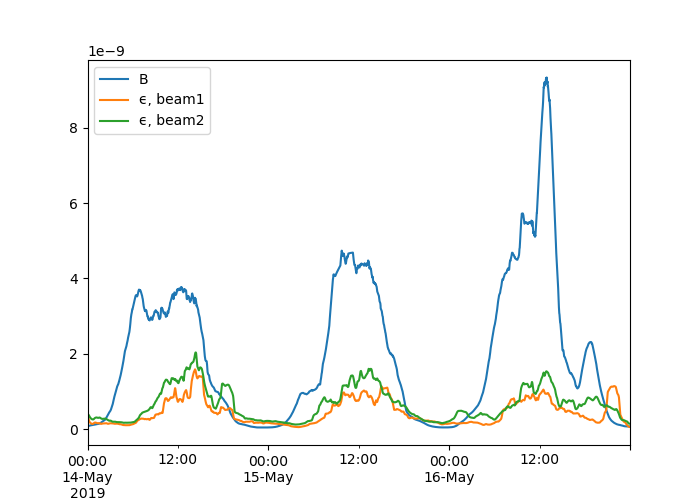
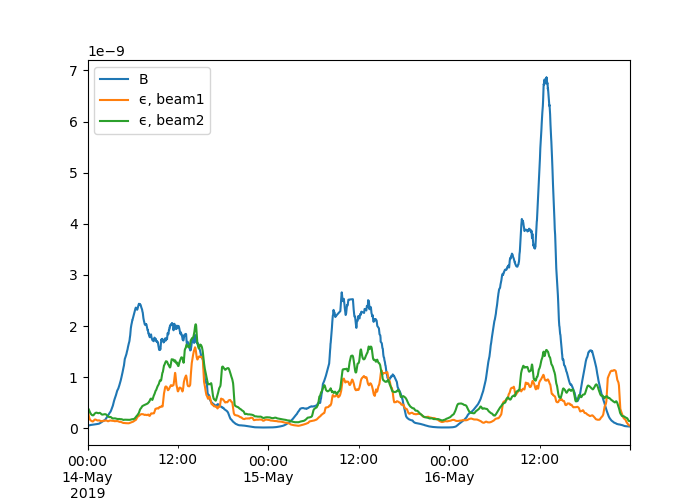
expand SignatureData class, fix typos, improve formating

diff --git a/adcp.py b/adcp.py
@@ -1,5 +1,6 @@
 import numpy as np
 import pandas as pd
+from math import sin, cos, radians
 import scipy.io
 import os
 import h5py
@@ -11,9 +12,10 @@ class AdcpData:
             index,
             cells,
             currents,
-            phi=None,
-            theta=None,
-            isdetrended=False
+            phi=None, # Orientation
+            theta=None, # Vertical angle
+            isdetrended=False,
+            coordinates='beam',
             ):
         self.index = index
         self.cells = cells
@@ -35,7 +37,7 @@ class AdcpData:
             inplace=False
             ):
         if self.isdetrended:
-            raise Exception("Data is already tetrended")
+            raise Exception("Data is already detrended")
         df = pd.DataFrame(data=self.currents, index=self.index, columns=self.cells)
         currents = (df - df.rolling(window).mean()).values
         if inplace:
@@ -88,8 +90,51 @@ class AdcpData:
 
 
 class SignatureData:
-    def __init__(self, **beams):
+    def __init__(
+            self,
+            beams,
+            heading=None,
+            pitch=None,
+            roll=None,
+            theta=radians(25),
+            angle_units='radians'
+            ):
         self.beams = beams
+        if angle_units=='radians':
+            self.heading = heading
+            self.pitch = pitch
+            self.roll = roll
+            self.theta = theta
+        else:
+            self.heading = radians(heading)
+            self.pitch = radians(pitch)
+            self.roll = radians(roll)
+            self.theta = radians(theta)
+
+    def get_xyz(self):
+        vx = (self.beams['beam1'].currents - self.beams['beam3'].currents)/2 * sin(self.theta)
+        vy = (self.beams['beam2'].currents - self.beams['beam4'].currents)/2 * sin(self.theta)
+        vz = sum([
+            self.beams['beam1'].currents,
+            self.beams['beam2'].currents,
+            self.beams['beam3'].currents,
+            self.beams['beam4'].currents,
+            ]) / 4 * cos(self.theta)
+        return [
+            AdcpData(
+                index=self.beams['beam1'].index,
+                cells=self.beams['beam1'].cells,
+                currents=currents,
+                ) for currents in (vx, vy, vz)]
+
+    def get_tke(self, detrend_window='100T', resample_window='1T'):
+        enu = [x.resample(resample_window).detrend(detrend_window) for x in self.get_xyz()]
+        tke = pd.DataFrame(
+                data=sum([x.currents**2 for x in enu]),
+                index=enu[0].index,
+                columns=enu[0].cells,
+                )
+        return tke
 
 
 def read_adcp_data(filename, beam):

diff --git a/main.py b/main.py
@@ -66,7 +66,10 @@ def get_temperature_data(data_directory):
         distances.append(device['distance_to_previous'])
     permutation_index = np.argsort(positions)
     distances = np.cumsum(np.array(distances)[permutation_index]) / 1e2
-    data = pd.concat({key:value for key, value in zip(distances, np.array(data, dtype='object')[permutation_index])}, axis=1)
+    data = pd.concat(
+            {key:value for key, value in zip(distances, np.array(data, dtype='object')[permutation_index])},
+            axis=1
+            )
     data.index = pd.to_datetime(data.index, unit='ms')
     data.index.name = ''
     data = data.droplevel(level=1, axis=1)
@@ -141,7 +144,6 @@ def get_data(beam):
     buoyancy_flux = get_buoyancy_flux(
             temperature_data=temperature_data,
             radiation_data=radiation_data,
-            gamma=.2,
     )
     currents_data = adcp.read_adcp_data(SIGNATURE_DATA_FILE, beam)
     dissipation_rate = currents_data.resample('T').detrend('10T').get_epsilon(window='10T', reference_point=0.25)
@@ -155,7 +157,7 @@ def main():
     buoyancy_flux = get_buoyancy_flux(
             temperature_data=temperature_data,
             radiation_data=radiation_data,
-            gamma=.2,
+            gamma=.3,
     )
 
     fig, ax = plt.subplots(figsize=(7, 5))

diff --git a/signature.py b/signature.py
@@ -51,7 +51,7 @@ def read_signature_data_from_mat_files(deployment_name, path='.'):
     i_cells = i_cells[0]
     data = {f"beam{i+1}":AdcpData(index, cells, adcp_datasets[beam]) for i, beam in enumerate(sorted(beams))}
     data[f"beam{len(beams)+1}"] = AdcpData(i_index, i_cells, i_currents)
-    return SignatureData(**data)
+    return SignatureData(data)
 
 
 def mat2hdf5(data=None, filename="signature.h5"):
